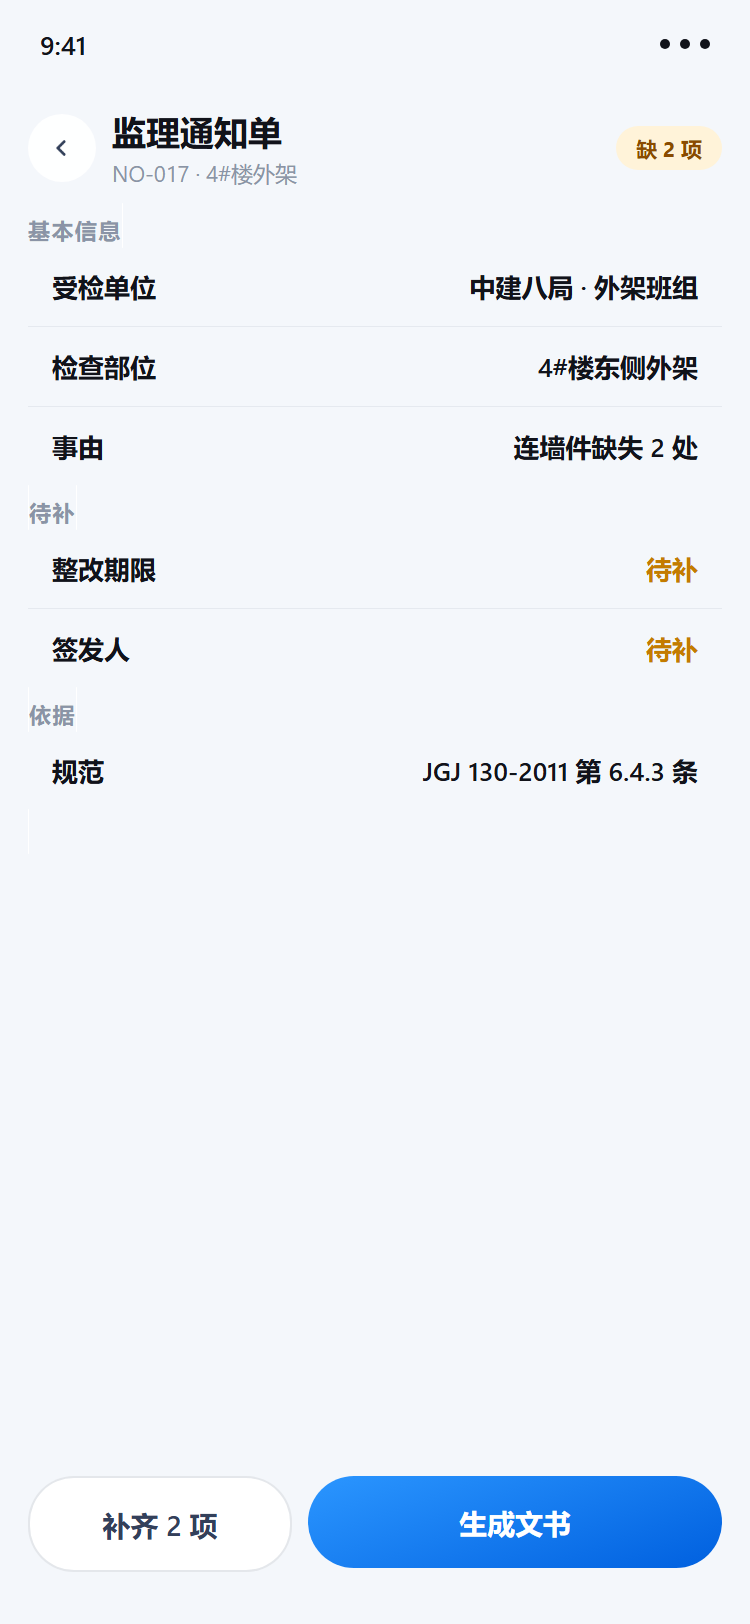
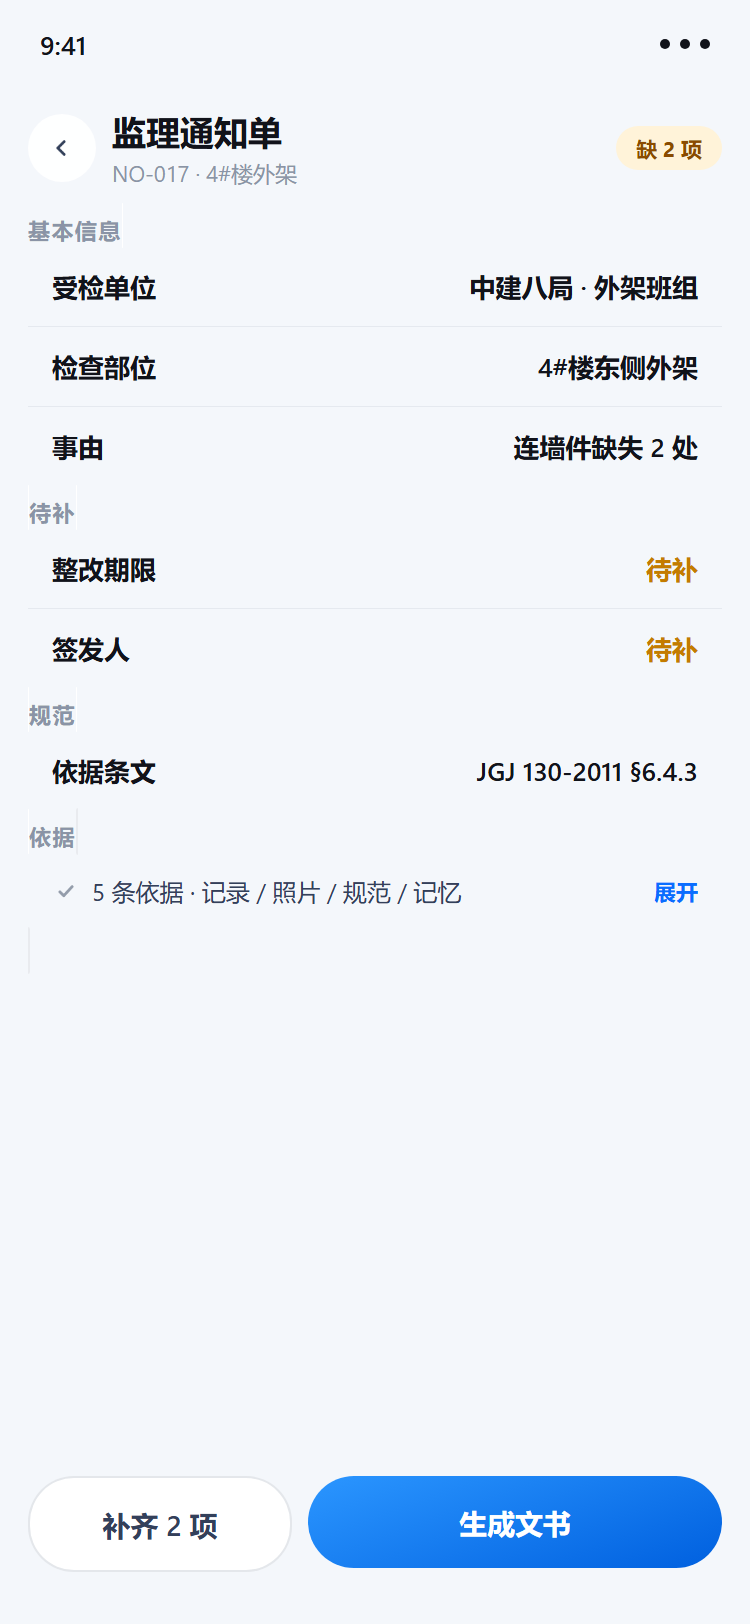
feat(文书): 详情页加「依据」清单
- 每种文书配自己的依据：现场记录 / 照片 / 规范条文 / 历史比对 / 记忆
- 折叠显示条数，展开逐条列出
- 生成文书时一并归档，出去的是单子加依据
- README 补充说明

diff --git a/pages/draft/draft.js b/pages/draft/draft.js
@@ -3,6 +3,12 @@ const store = require("../../utils/store");
 const DOCS = {
   旁站记录: {
     sub: "3#5F 顶板 · 09:12–10:24",
+    bases: [
+      { ic: "doc", t: "现场记录 3 条：09:12 开始旁站、10:24 结束、坍落度实测 180mm" },
+      { ic: "cam", t: "现场照片 2 张：浇筑中 1 张、试块取样 1 张" },
+      { ic: "search", t: "规范 GB 50204-2015 §7.3 混凝土浇筑与养护" },
+      { ic: "pen", t: "你的记忆：旁站结论写「经检查符合要求」" },
+    ],
     groups: [
       {
         label: "基本信息",
@@ -30,6 +36,13 @@ const DOCS = {
   },
   监理通知单: {
     sub: "NO-017 · 4#楼外架",
+    bases: [
+      { ic: "doc", t: "现场记录 1 条：08:05 发现连墙件缺失 2 处" },
+      { ic: "cam", t: "现场照片 1 张：4#楼东侧外架缺失部位" },
+      { ic: "search", t: "规范 JGJ 130-2011 §6.4.3 连墙件设置间距" },
+      { ic: "warn", t: "历史比对：10-28 同部位曾因连墙件被下过通知单" },
+      { ic: "pen", t: "你的记忆：隐患描述要带部位和数量" },
+    ],
     groups: [
       {
         label: "基本信息",
@@ -54,6 +67,12 @@ const DOCS = {
   },
   监理日志: {
     sub: "11-03 · 汇总 6 条",
+    bases: [
+      { ic: "doc", t: "当天现场记录 6 条（08:05–17:40）" },
+      { ic: "cam", t: "现场照片 4 张" },
+      { ic: "warn", t: "当天开出通知单 1 份（NO-017）" },
+      { ic: "pen", t: "你的记忆：日报先写部位、再写问题" },
+    ],
     groups: [
       {
         label: "基本信息",
@@ -85,6 +104,8 @@ Page({
     title: "旁站记录",
     sub: "",
     groups: [],
+    bases: [],
+    basesOpen: false,
     missingCount: 0,
     hdrTop: 52,
     bottomPad: 48,
@@ -120,6 +141,8 @@ Page({
     conf.groups.forEach((g) => g.rows.forEach((r) => r.missing && missing++));
 
     this.setData({
+      bases: conf.bases || [],
+      basesOpen: false,
       title: kind,
       sub: decodeURIComponent(opt.obj || "") || conf.sub,
       groups: conf.groups,
@@ -134,6 +157,10 @@ Page({
   onFillAll() {
     // 原型占位：真实场景会逐个弹输入
     wx.showToast({ title: "逐项补齐：原型占位", icon: "none" });
+  },
+
+  onToggleBases() {
+    this.setData({ basesOpen: !this.data.basesOpen });
   },
 
   onGenerate() {

diff --git a/README.md b/README.md
@@ -157,6 +157,24 @@
 
 **这是"零必填"的另一半**：记录时不拦你，缺口在这里集中还债。
 
+**页面底部还有一块「依据」**——这份文书凭什么这么写：
+
+```
+✓ 5 条依据 · 记录 / 照片 / 规范 / 记忆        展开
+```
+
+点开是逐条：
+
+```
+🗎  现场记录 1 条：08:05 发现连墙件缺失 2 处
+📷  现场照片 1 张：4#楼东侧外架缺失部位
+📕  规范 JGJ 130-2011 §6.4.3 连墙件设置间距
+⚠  历史比对：10-28 同部位曾因连墙件被下过通知单
+✎   你的记忆：隐患描述要带部位和数量
+```
+
+生成文书时，这份清单会附在文书后面。**出去的不是一张单子，是单子加依据。**
+
 ---
 
 ### 六、项目信息：水印和文书的字段都来自这里
